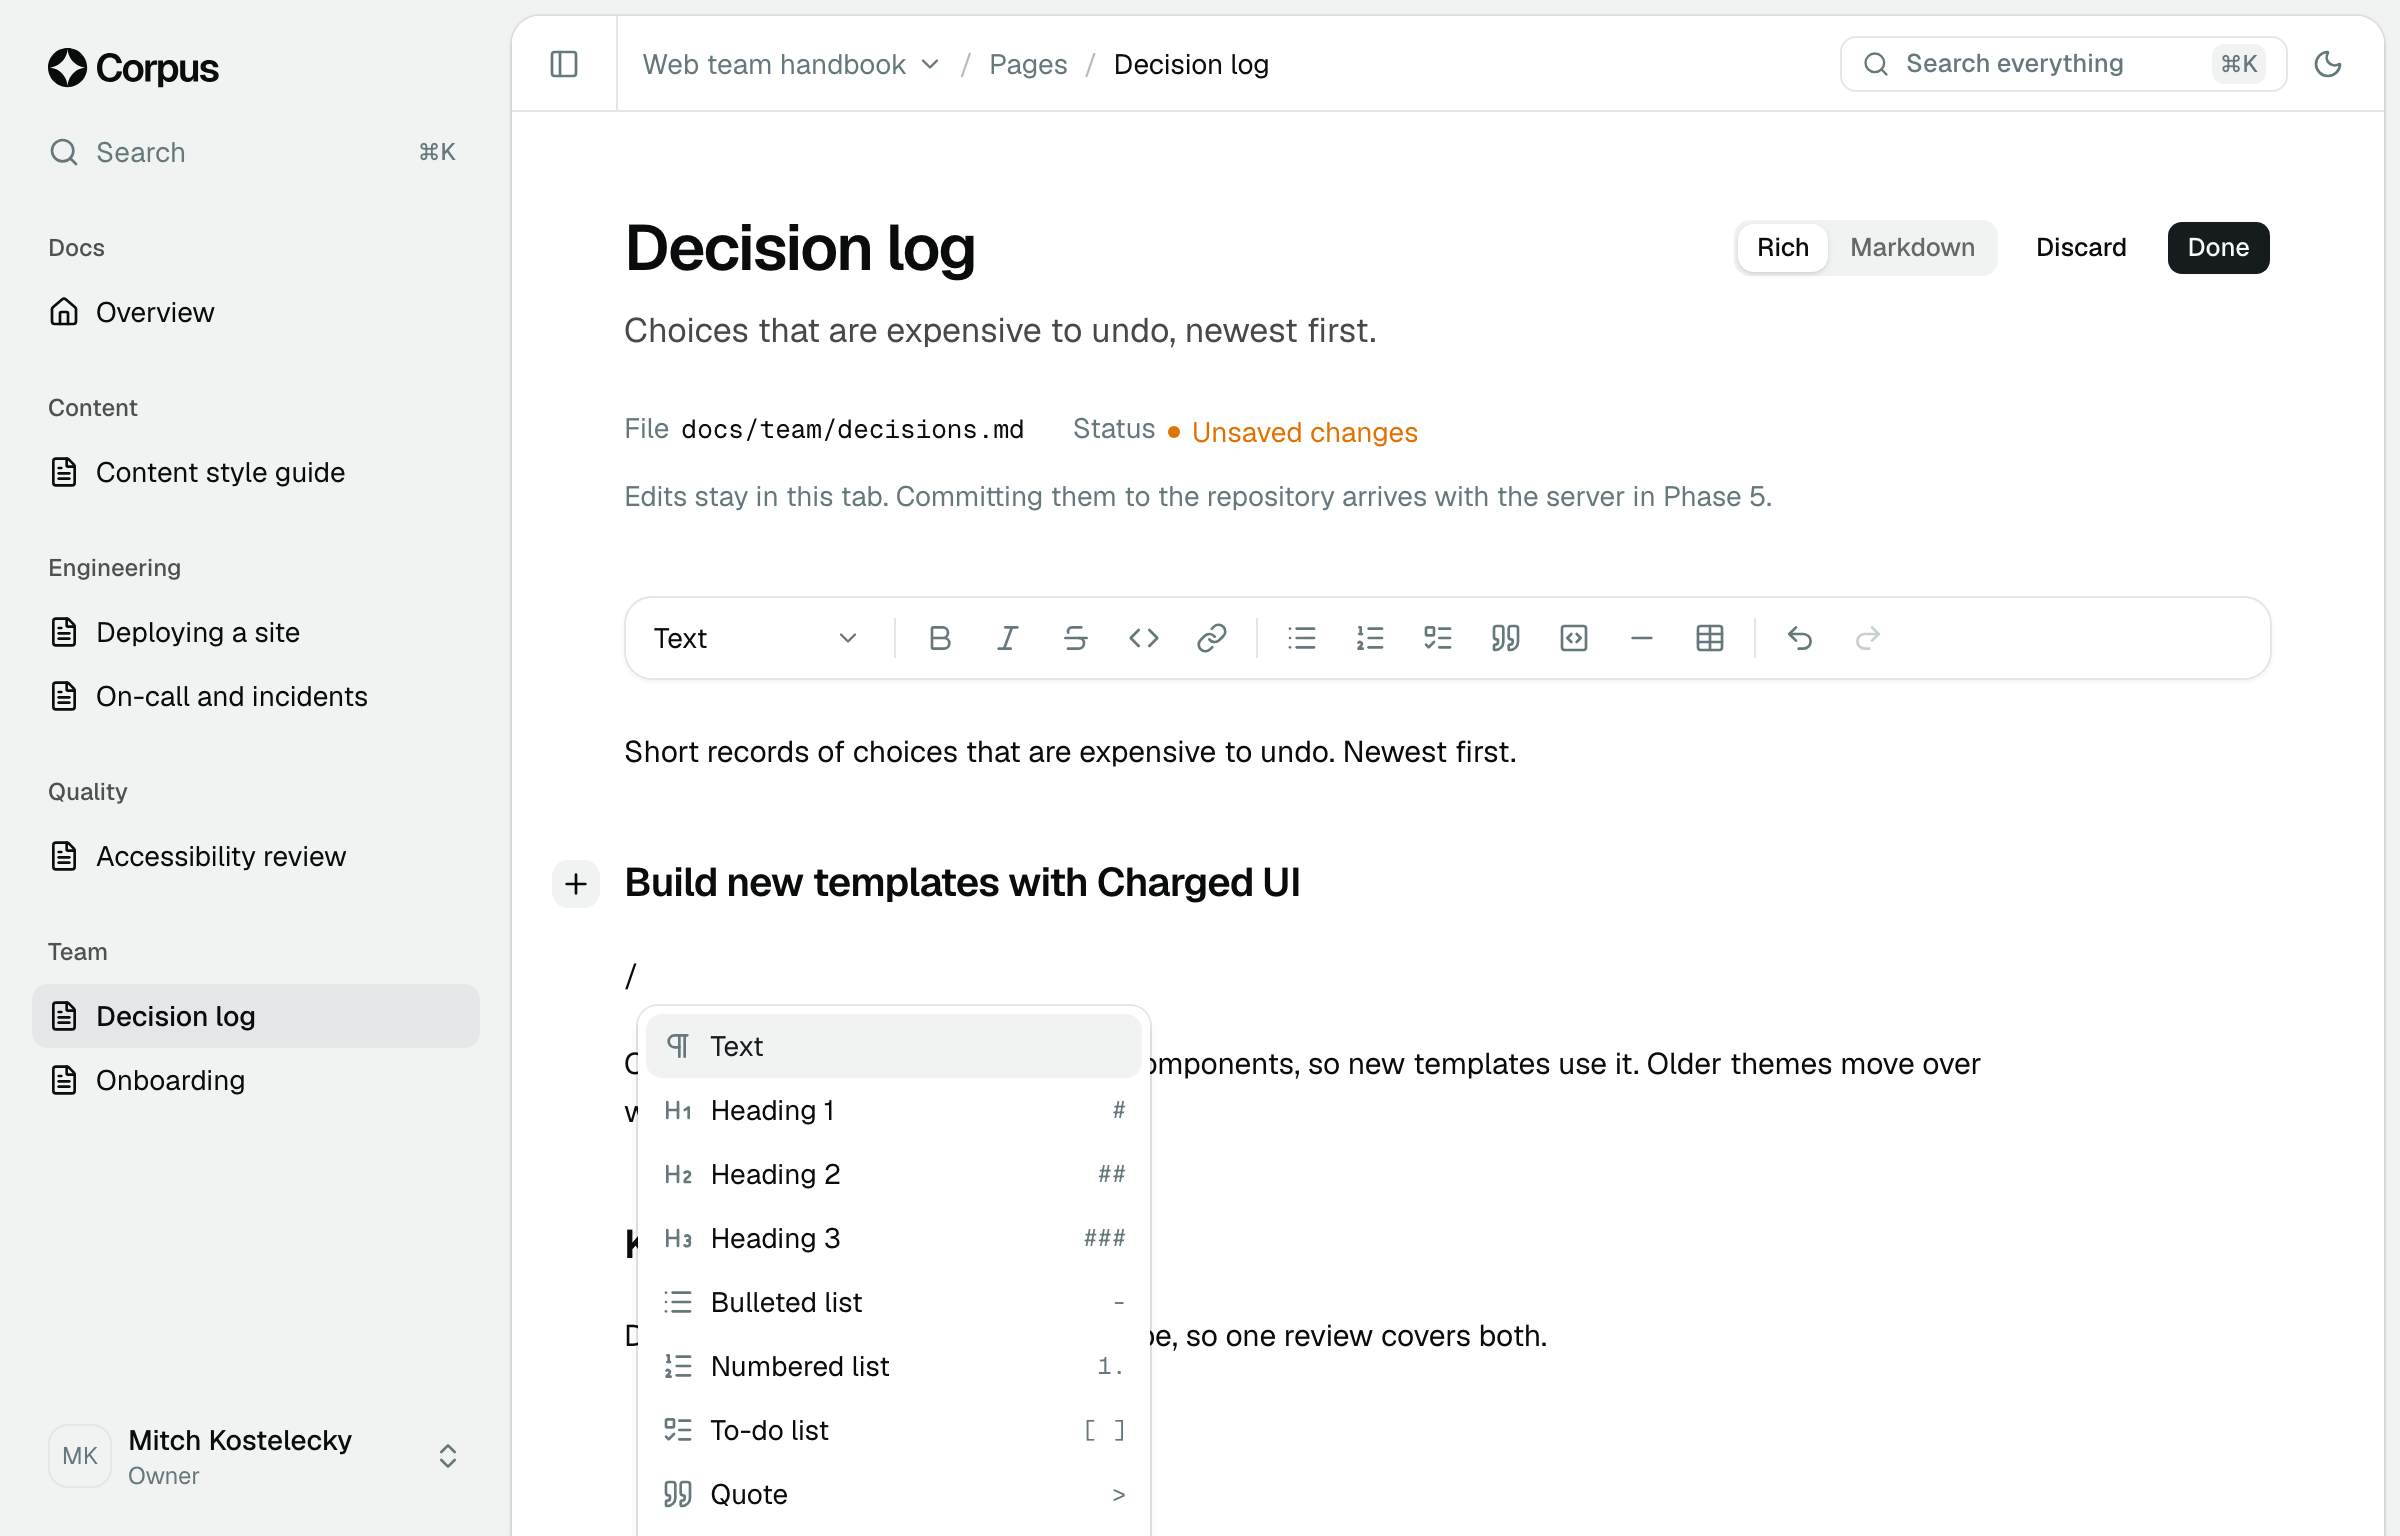
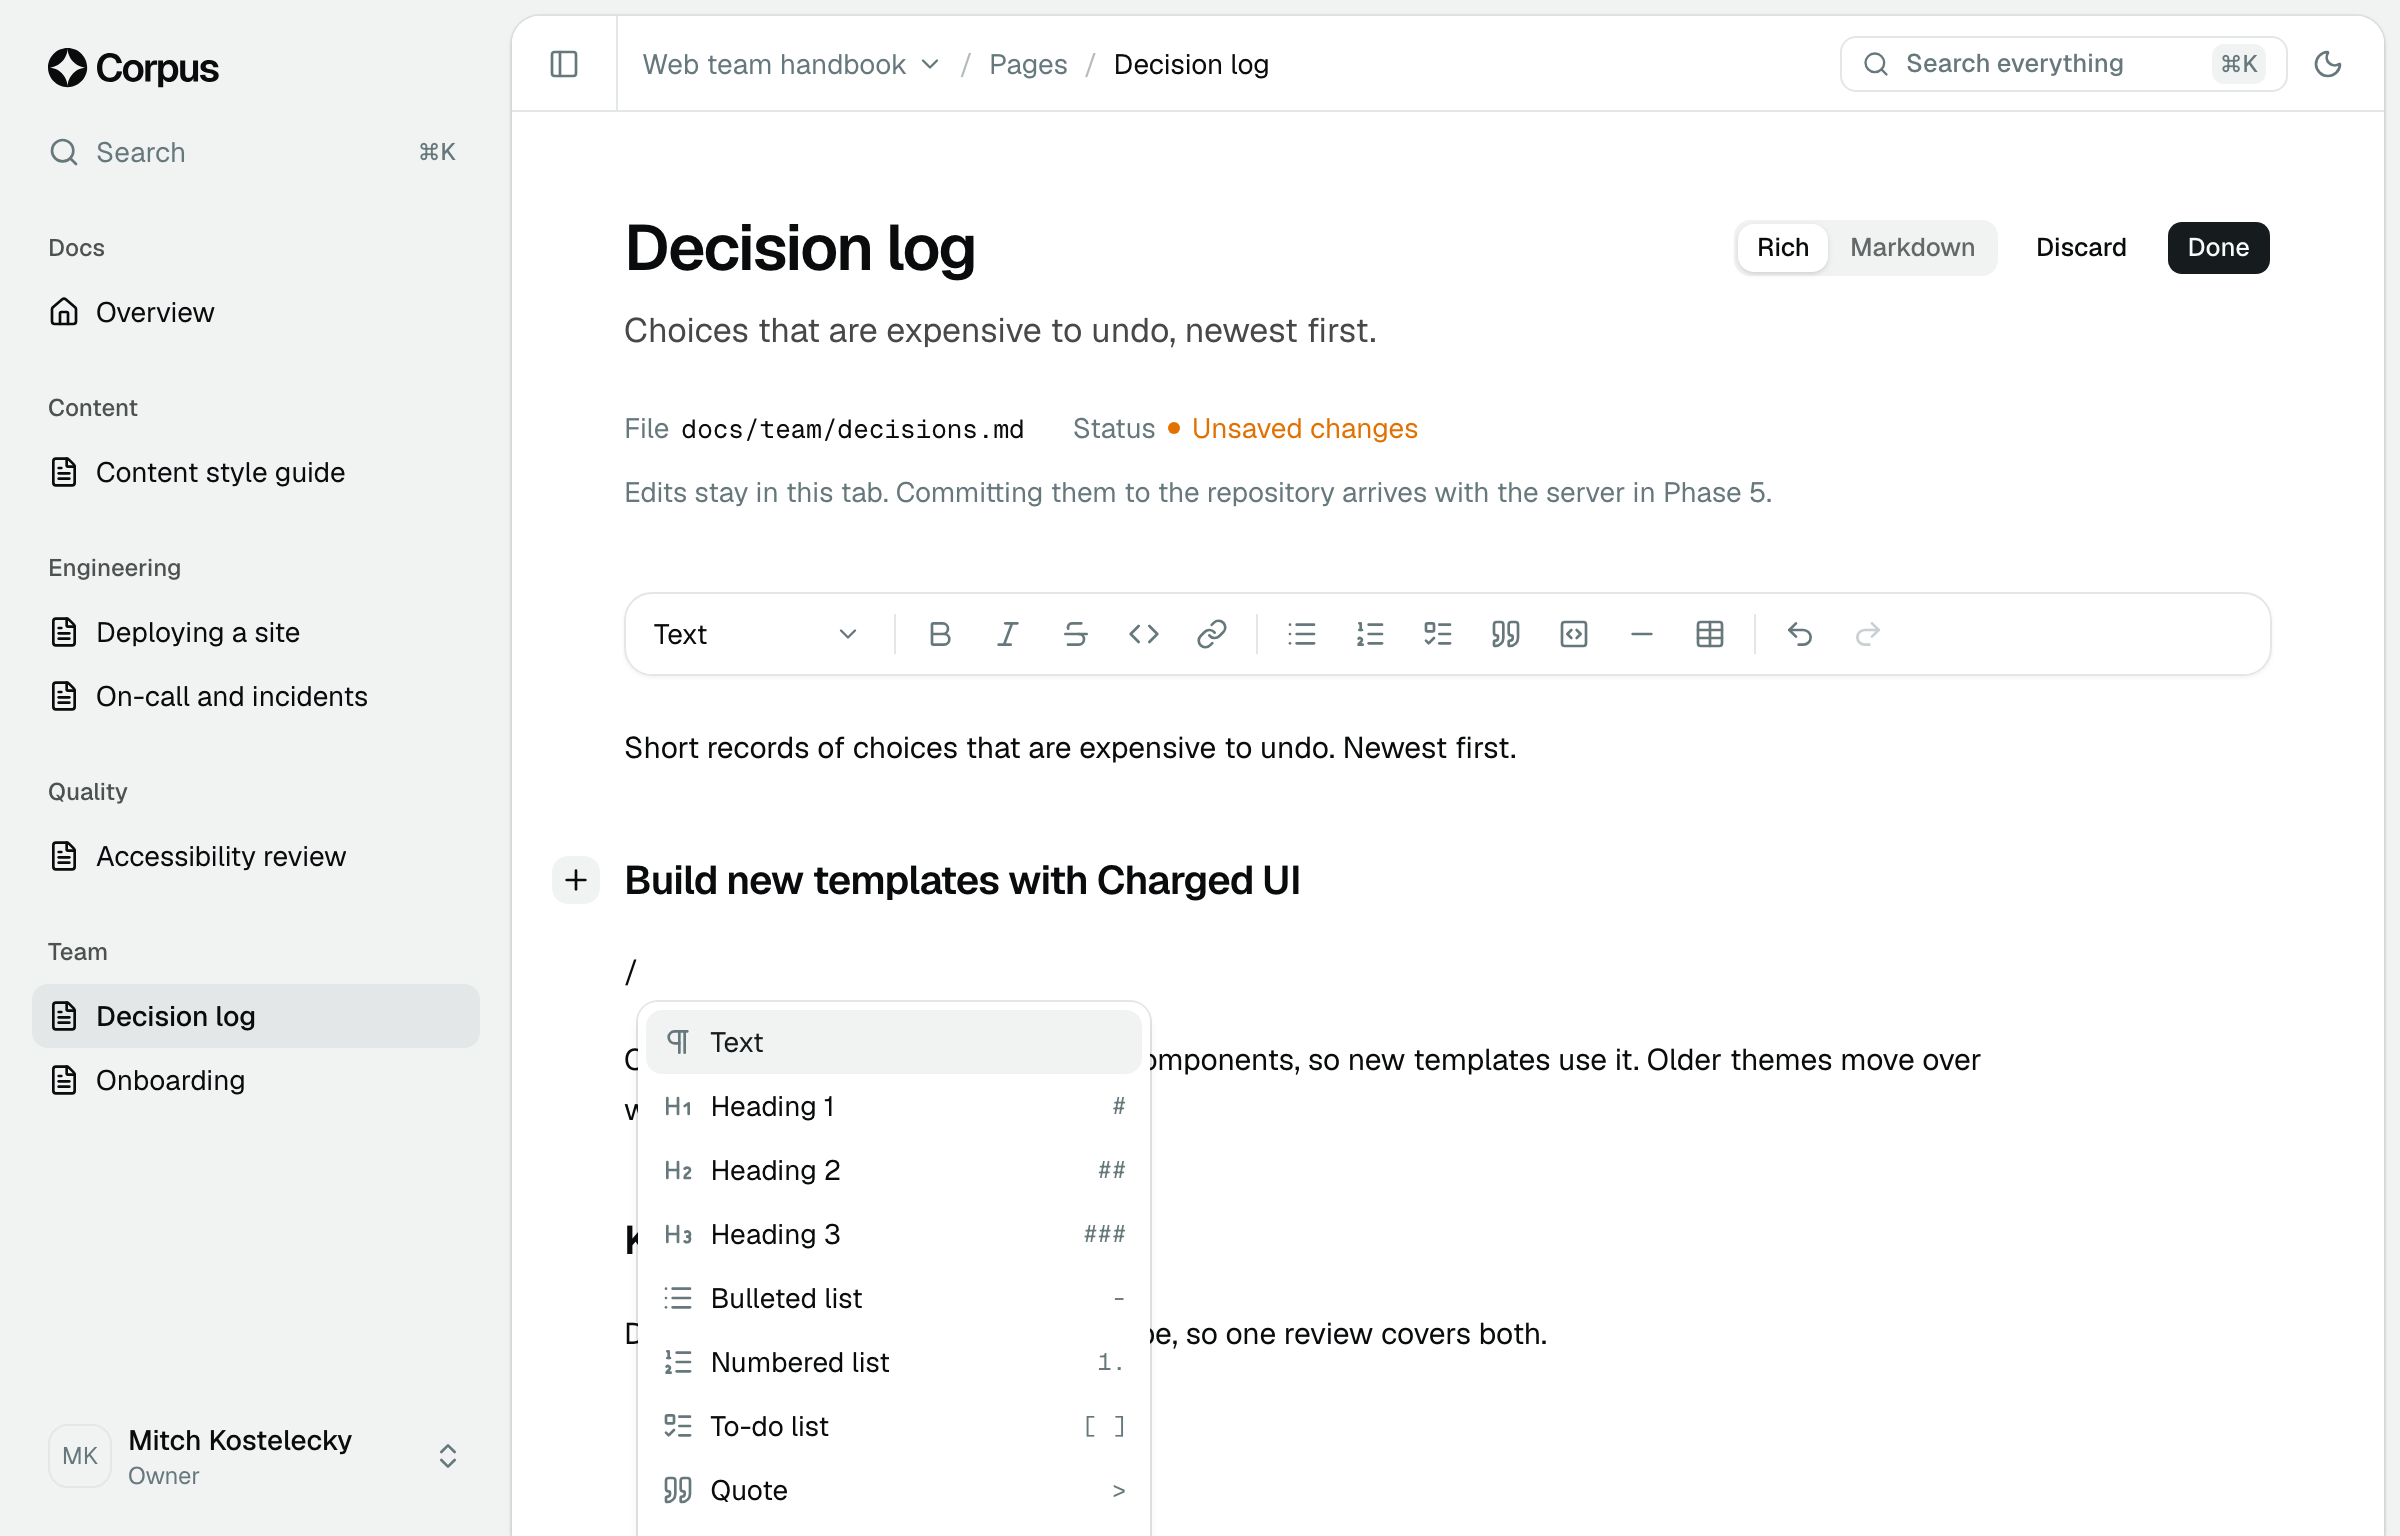
Bring the deck in line with the latest prototype
- The cover's editor screenshot is retaken with the aligned status dot,
  and so is the landing page's editor screenshot
- How it works says plugins connect Claude, Codex, and more in one
  click, instead of the one-line MCP command

diff --git a/deck/src/slides.tsx b/deck/src/slides.tsx
@@ -316,7 +316,8 @@ function HowItWorks() {
           Plain Markdown files you own, in folders. Edit them as rich text or as Markdown.
         </Step>
         <Step n={2} head="Publish and connect">
-          A docs site or help center for people. One line connects Claude, Codex, or any MCP client.
+          A docs site or help center for people. Plugins connect Claude, Codex, and more in one
+          click.
         </Step>
         <Step n={3} head="Fill the gaps">
           Questions nobody could answer come back as AI drafts, written with the model you pick.
